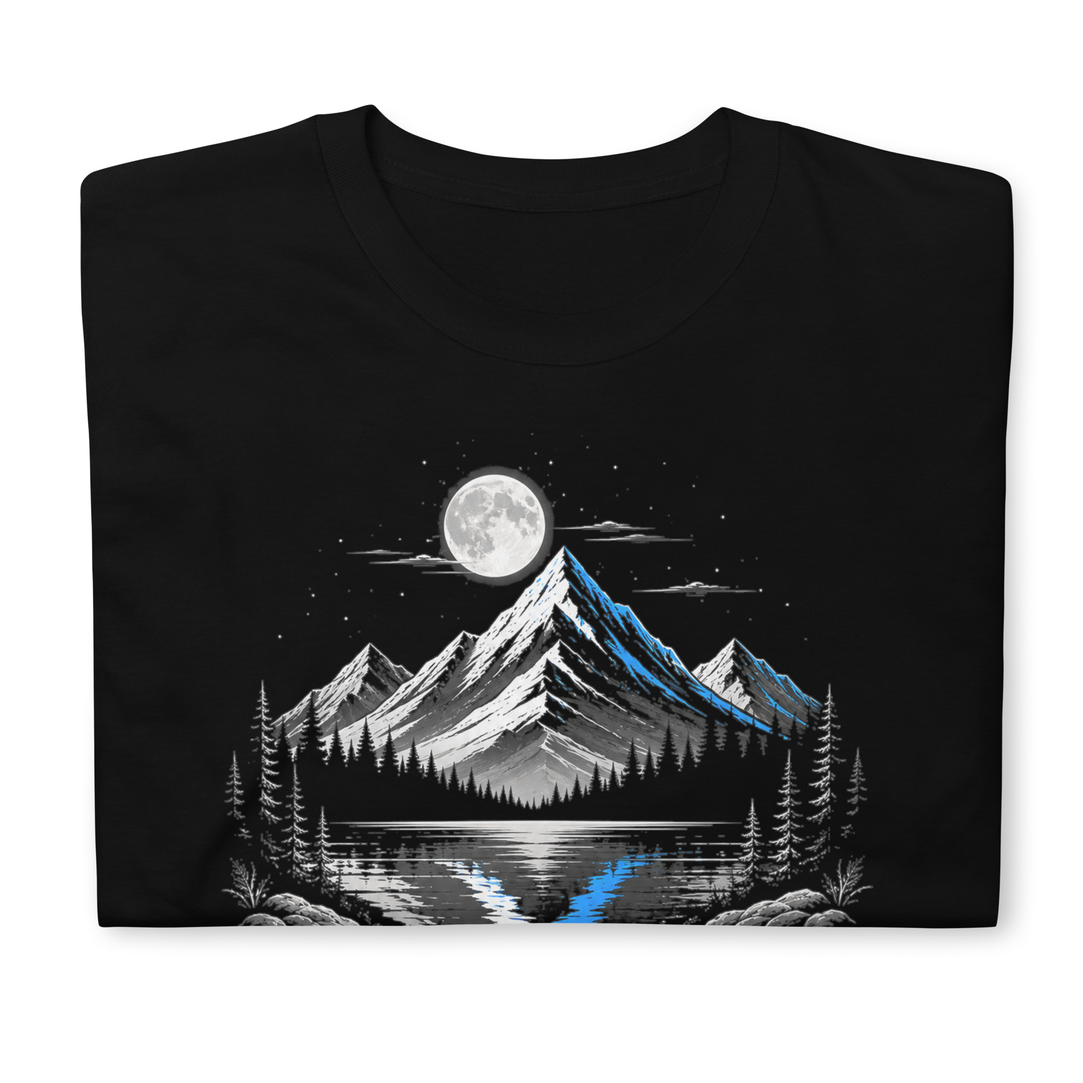
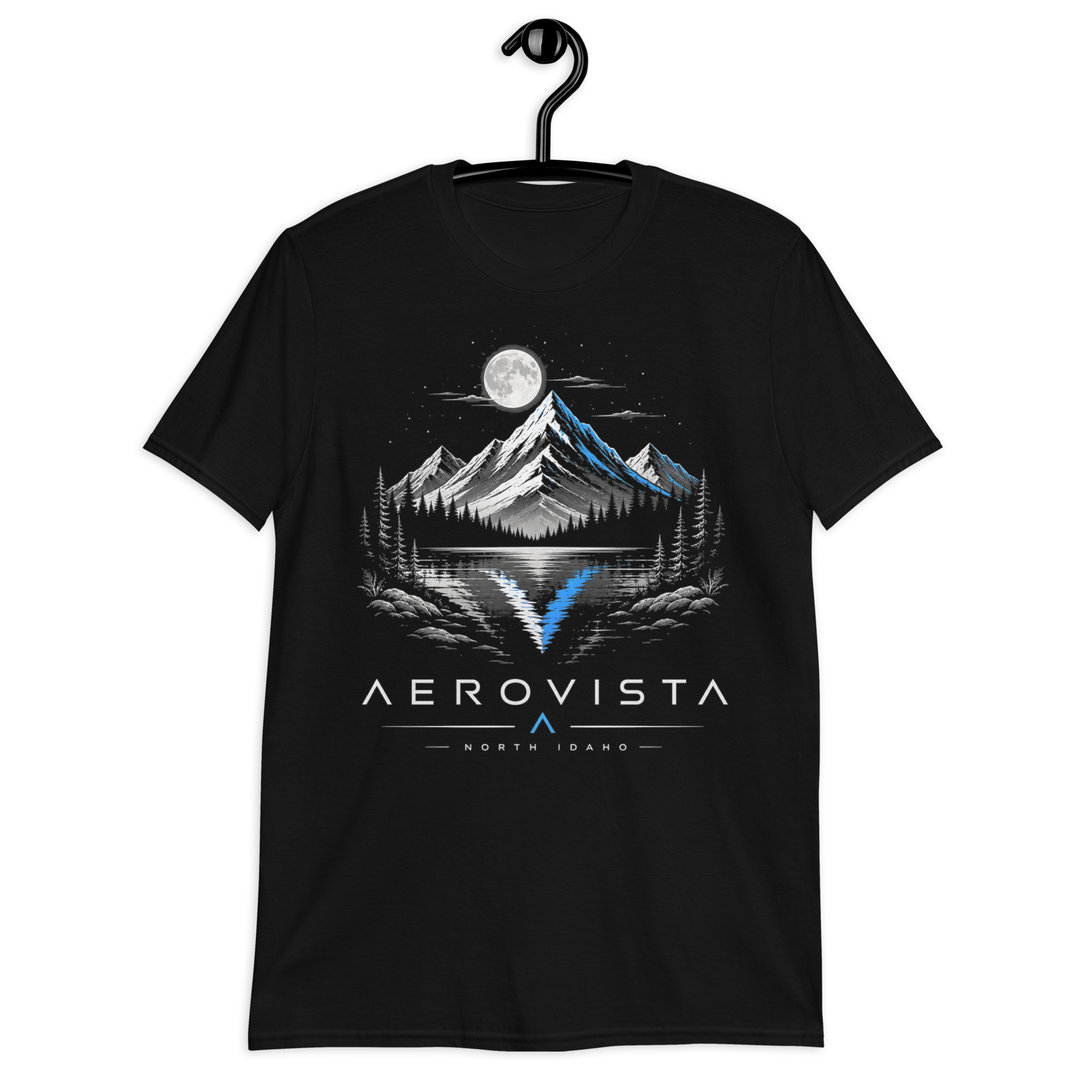
Add Northline sharing and refine product imagery

diff --git a/store.generated.js b/store.generated.js
@@ -1,1 +1,1 @@
-window.NORTHLINE_STORE={"schemaVersion":1,"channel":"northline","currency":"USD","apiOrigin":"https://api.aerovista.us","updated":"2026-09-02","collection":{"title":"AeroVista Northline Collection","description":"Wear the landscapes behind the Northline sound—six tees and two embroidered field caps drawn from the same mountain, moonlight, and electric-blue visual world."},"products":[{"id":"NL-01","slug":"blue-divide","title":"Blue Divide Tee","artKey":"blue-divide","image":"assets/products/blue-divide-tee.png","imageScale":1.08,"imageY":2,"subtitle":"Northline 01 · Black","description":"Moonlit alpine lake, cold peaks, dark timber, and a hidden apex in the reflection.","publicVisible":true,"checkoutReady":true,"variants":[{"id":"NL-01-S","label":"S","color":"Black","priceCents":3299,"cartKey":"Black__S","squareVariationId":"SJACB3RVWKJBO5QG4C6WFW3E","checkoutReady":true},{"id":"NL-01-M","label":"M","color":"Black","priceCents":3299,"cartKey":"Black__M","squareVariationId":"QPQITWRJTMHCU4EPJ7GBGCMS","checkoutReady":true},{"id":"NL-01-L","label":"L","color":"Black","priceCents":3299,"cartKey":"Black__L","squareVariationId":"MV5MDSJ54KRDFIZ2M67FJLXO","checkoutReady":true},{"id":"NL-01-XL","label":"XL","color":"Black","priceCents":3299,"cartKey":"Black__XL","squareVariationId":"QU2QJ67SEJEEM6INQDTBMQRX","checkoutReady":true},{"id":"NL-01-2XL","label":"2XL","color":"Black","priceCents":3299,"cartKey":"Black__2XL","squareVariationId":"LEGSOWBOIYG2W2NWJUY7HD34","checkoutReady":true},{"id":"NL-01-3XL","label":"3XL","color":"Black","priceCents":3299,"cartKey":"Black__3XL","squareVariationId":"6BA4LZWLROFJZN2ECJBNVJ54","checkoutReady":true}]},{"id":"NL-02","slug":"ridgeline","title":"Ridgeline Tee","artKey":"ridgeline","image":"assets/products/ridgeline-tee.png","imageScale":1.34,"imageY":-4,"subtitle":"Northline 02 · Black","description":"A wide panoramic mountain study built for broad chest placement.","publicVisible":true,"checkoutReady":true,"variants":[{"id":"NL-02-S","label":"S","color":"Black","priceCents":3299,"cartKey":"Black__S","squareVariationId":"CYMAIUALBD5E65AY64AE33CS","checkoutReady":true},{"id":"NL-02-M","label":"M","color":"Black","priceCents":3299,"cartKey":"Black__M","squareVariationId":"O2PBIW3ZFICUWL744XBMWF6M","checkoutReady":true},{"id":"NL-02-L","label":"L","color":"Black","priceCents":3299,"cartKey":"Black__L","squareVariationId":"NBNGEDAQOGUPGL36U7X2GFF4","checkoutReady":true},{"id":"NL-02-XL","label":"XL","color":"Black","priceCents":3299,"cartKey":"Black__XL","squareVariationId":"YVNXA66P6NXRB4CWRPTFY2LQ","checkoutReady":true},{"id":"NL-02-2XL","label":"2XL","color":"Black","priceCents":3299,"cartKey":"Black__2XL","squareVariationId":"32C6BQLJNN65CFGROOAAKPAO","checkoutReady":true},{"id":"NL-02-3XL","label":"3XL","color":"Black","priceCents":3299,"cartKey":"Black__3XL","squareVariationId":"SVQM45FKPPLJDPAVVOBQ5SSF","checkoutReady":true}]},{"id":"NL-03","slug":"idaho-after-dark","title":"Idaho After Dark Tee","artKey":"idaho-after-dark","image":"assets/products/idaho-after-dark-tee.png","imageScale":1.08,"imageY":1,"subtitle":"Northline 03 · Black","description":"A moonlit North Idaho expedition badge with hidden local details.","publicVisible":true,"checkoutReady":true,"variants":[{"id":"NL-03-S","label":"S","color":"Black","priceCents":3299,"cartKey":"Black__S","squareVariationId":"3OGXGQVSJCHRSXVASHMFP6VV","checkoutReady":true},{"id":"NL-03-M","label":"M","color":"Black","priceCents":3299,"cartKey":"Black__M","squareVariationId":"GMBBP2TEA7OIABKYR3CI66YO","checkoutReady":true},{"id":"NL-03-L","label":"L","color":"Black","priceCents":3299,"cartKey":"Black__L","squareVariationId":"EIZ5BAOVUM2BZ6BPAUFYORWV","checkoutReady":true},{"id":"NL-03-XL","label":"XL","color":"Black","priceCents":3299,"cartKey":"Black__XL","squareVariationId":"BLEQGFBSBNABRLG4GN7IWPYC","checkoutReady":true},{"id":"NL-03-2XL","label":"2XL","color":"Black","priceCents":3299,"cartKey":"Black__2XL","squareVariationId":"TBXBKC4WEFRA5GKXH55G5SNG","checkoutReady":true},{"id":"NL-03-3XL","label":"3XL","color":"Black","priceCents":3299,"cartKey":"Black__3XL","squareVariationId":"D2KRJJ5HDPQQV2M5H437MZAG","checkoutReady":true}]},{"id":"NL-04","slug":"powderline","title":"Powderline Tee","artKey":"powderline","image":"assets/products/powderline-tee.png","imageScale":1.34,"imageY":-4,"subtitle":"Northline 04 · Black","description":"A steep winter face marked by a single electric path through the snow.","publicVisible":true,"checkoutReady":true,"variants":[{"id":"NL-04-S","label":"S","color":"Black","priceCents":3299,"cartKey":"Black__S","squareVariationId":"ZBQSW2IFBK26H3YMZXMVOUT5","checkoutReady":true},{"id":"NL-04-M","label":"M","color":"Black","priceCents":3299,"cartKey":"Black__M","squareVariationId":"C5LU3SC547O4WVYJ6N6F2YTT","checkoutReady":true},{"id":"NL-04-L","label":"L","color":"Black","priceCents":3299,"cartKey":"Black__L","squareVariationId":"3HOVH4XOWXJJHRZ53JJSWB5B","checkoutReady":true},{"id":"NL-04-XL","label":"XL","color":"Black","priceCents":3299,"cartKey":"Black__XL","squareVariationId":"H6JA4LHLU7RBZL47ZPW4N3WS","checkoutReady":true},{"id":"NL-04-2XL","label":"2XL","color":"Black","priceCents":3299,"cartKey":"Black__2XL","squareVariationId":"BXP5YM4JFUKC5HWV2U7CTSXD","checkoutReady":true},{"id":"NL-04-3XL","label":"3XL","color":"Black","priceCents":3299,"cartKey":"Black__3XL","squareVariationId":"NKLKMBS6H6YU5S4O4WZESSXU","checkoutReady":true}]},{"id":"NL-05","slug":"source-code","title":"Source Code Tee","artKey":"source-code","image":"assets/products/source-code-tee.png","imageScale":1.34,"imageY":-4,"subtitle":"Northline 05 · Black","description":"Mountain field insignia meets AeroVista systems language and hidden geometry.","publicVisible":true,"checkoutReady":true,"variants":[{"id":"NL-05-S","label":"S","color":"Black","priceCents":3299,"cartKey":"Black__S","squareVariationId":"XT3HCJXVZ6O5LCPCUWVW7VPO","checkoutReady":true},{"id":"NL-05-M","label":"M","color":"Black","priceCents":3299,"cartKey":"Black__M","squareVariationId":"KATG2NXR5DISU24J5ZRKPBQT","checkoutReady":true},{"id":"NL-05-L","label":"L","color":"Black","priceCents":3299,"cartKey":"Black__L","squareVariationId":"LNT7CQAMNJIECOZWX6Z7PC6T","checkoutReady":true},{"id":"NL-05-XL","label":"XL","color":"Black","priceCents":3299,"cartKey":"Black__XL","squareVariationId":"DSISRWEDFTMRVR4N6ZOBQ7SB","checkoutReady":true},{"id":"NL-05-2XL","label":"2XL","color":"Black","priceCents":3299,"cartKey":"Black__2XL","squareVariationId":"UNA2PQII6NUIMZOBAXARJRS6","checkoutReady":true},{"id":"NL-05-3XL","label":"3XL","color":"Black","priceCents":3299,"cartKey":"Black__3XL","squareVariationId":"T26TEPZ7PXOUDMIKNWV4RUSG","checkoutReady":true}]},{"id":"NL-06","slug":"built-behind-the-scenes-hat","title":"Built Behind the Scenes Hat","artKey":"built-behind-the-scenes","image":"assets/products/built-behind-the-scenes-hat.jpeg","subtitle":"Northline Field Gear · Heather Grey / White","description":"A Richardson 112 trucker cap embroidered with the mountain-apex landscape behind the Northline sound.","publicVisible":true,"checkoutReady":true,"variants":[{"id":"NL-06-ONE","label":"One Size","color":"Heather Grey / White","priceCents":3899,"cartKey":"Gray__One Size","squareVariationId":"NGL72ITOR4SWK5DR5KY5QM6T","checkoutReady":true}]},{"id":"NL-07","slug":"moonline","title":"MoonLine Tee","artKey":"moonline","image":"assets/products/moonline-tee.png","imageScale":1.34,"imageY":-4,"subtitle":"Northline 06 · Black","description":"Moonlit peaks, reflected water, and a soaring eagle carried across a wide horizon mark.","publicVisible":true,"checkoutReady":true,"variants":[{"id":"NL-07-S","label":"S","color":"Black","priceCents":3299,"cartKey":"Black__S","squareVariationId":"XGUYOGR2VIIMAFE2WPMLZ4QF","checkoutReady":true},{"id":"NL-07-M","label":"M","color":"Black","priceCents":3299,"cartKey":"Black__M","squareVariationId":"4AR33BQFYNI7LP5S5JSILPJN","checkoutReady":true},{"id":"NL-07-L","label":"L","color":"Black","priceCents":3299,"cartKey":"Black__L","squareVariationId":"JXM7NTL5EX7BEX3CNXC32NFK","checkoutReady":true},{"id":"NL-07-XL","label":"XL","color":"Black","priceCents":3299,"cartKey":"Black__XL","squareVariationId":"KCSKHXS5UN36V6R3ZIAHEW6Y","checkoutReady":true},{"id":"NL-07-2XL","label":"2XL","color":"Black","priceCents":3299,"cartKey":"Black__2XL","squareVariationId":"LDNPTVHS74QFRUQJ7QCLZZDU","checkoutReady":true},{"id":"NL-07-3XL","label":"3XL","color":"Black","priceCents":3299,"cartKey":"Black__3XL","squareVariationId":"NDDDXI7VIOMO5MLJC6FVX42A","checkoutReady":true}]},{"id":"NL-08","slug":"moonline-hat","title":"MoonLine Embroidered Hat","artKey":"moonline","image":"assets/products/moonline-hat.png","subtitle":"Northline Field Gear · Heather Grey / White","description":"A structured snapback embroidered with the MoonLine mountain, lake, eagle, and apex horizon.","publicVisible":true,"checkoutReady":true,"variants":[{"id":"NL-08-ONE","label":"One Size","color":"Heather Grey / White","priceCents":3899,"cartKey":"Gray__One Size","squareVariationId":"HCWWDQULCAFCB35V6FNRXLPG","checkoutReady":true}]},{"id":"NL-09","slug":"built-behind-the-scenes-black","title":"Built Behind the Scenes Tee","artKey":"built-behind-the-scenes","subtitle":"Black","description":"The black Built Behind the Scenes tee, staged until its official product mockup is available.","publicVisible":false,"checkoutReady":true,"variants":[{"id":"NL-09-S","label":"S","color":"Black","priceCents":3299,"cartKey":"Black__S","squareVariationId":"N5AEVY4W2L36RVKIKJDZ4BFW","checkoutReady":true},{"id":"NL-09-M","label":"M","color":"Black","priceCents":3299,"cartKey":"Black__M","squareVariationId":"XIKMOTAKQYKA4XAPAS2R2B34","checkoutReady":true},{"id":"NL-09-L","label":"L","color":"Black","priceCents":3299,"cartKey":"Black__L","squareVariationId":"MJAO7PH3XCWCB6TJ7M7ITDE3","checkoutReady":true},{"id":"NL-09-XL","label":"XL","color":"Black","priceCents":3299,"cartKey":"Black__XL","squareVariationId":"EPCOTGE4CLYTZTH2WRYTR7RD","checkoutReady":true},{"id":"NL-09-2XL","label":"2XL","color":"Black","priceCents":3299,"cartKey":"Black__2XL","squareVariationId":"ICNM447TIJDJU2LXDIJ5DG5I","checkoutReady":true},{"id":"NL-09-3XL","label":"3XL","color":"Black","priceCents":3299,"cartKey":"Black__3XL","squareVariationId":"E45VERAOTNLJCKR6FZQDVBRS","checkoutReady":true}]},{"id":"NL-10","slug":"built-behind-the-scenes-graphite","title":"Built Behind the Scenes Tee","artKey":"built-behind-the-scenes","subtitle":"Graphite","description":"The graphite Built Behind the Scenes tee, staged until its official product mockup is available.","publicVisible":false,"checkoutReady":true,"variants":[{"id":"NL-10-S","label":"S","color":"Graphite","priceCents":3299,"cartKey":"Graphite__S","squareVariationId":"7JJEJCO6NGWNMC6KMA2JZDVK","checkoutReady":true},{"id":"NL-10-M","label":"M","color":"Graphite","priceCents":3299,"cartKey":"Graphite__M","squareVariationId":"EGXM3VHRQLZICQSN3D3SCNWZ","checkoutReady":true},{"id":"NL-10-L","label":"L","color":"Graphite","priceCents":3299,"cartKey":"Graphite__L","squareVariationId":"AIYQ32657BKST7ESUGZ3KZZ2","checkoutReady":true},{"id":"NL-10-XL","label":"XL","color":"Graphite","priceCents":3299,"cartKey":"Graphite__XL","squareVariationId":"6LHWVCK2WD74ZW2KXQL4OKOG","checkoutReady":true},{"id":"NL-10-2XL","label":"2XL","color":"Graphite","priceCents":3299,"cartKey":"Graphite__2XL","squareVariationId":"DRUEJSF4YHABHX6N5TLT5HTT","checkoutReady":true},{"id":"NL-10-3XL","label":"3XL","color":"Graphite","priceCents":3299,"cartKey":"Graphite__3XL","squareVariationId":"PLW6M4NHHBHNVOVGNVEZ5H4N","checkoutReady":true}]},{"id":"NL-11","slug":"moonline-catalog-alias","title":"MoonLine Tee","artKey":"moonline","subtitle":"Catalog alias under review","description":"A second Square listing named MoonLine whose copied description matches Blue Divide; kept hidden to prevent a duplicate storefront card.","publicVisible":false,"checkoutReady":true,"variants":[{"id":"NL-11-S","label":"S","color":"Black","priceCents":3299,"cartKey":"Black__S","squareVariationId":"MR62I3V444QFEM5JFHLVVUKQ","checkoutReady":true},{"id":"NL-11-M","label":"M","color":"Black","priceCents":3299,"cartKey":"Black__M","squareVariationId":"ACGP6A6ZUXEGGNTO2MH7ARM6","checkoutReady":true},{"id":"NL-11-L","label":"L","color":"Black","priceCents":3299,"cartKey":"Black__L","squareVariationId":"ORSFKT3CEUUZJBL5Z2NCG7BJ","checkoutReady":true},{"id":"NL-11-XL","label":"XL","color":"Black","priceCents":3299,"cartKey":"Black__XL","squareVariationId":"HPVJWRFQFNF433I2N26ICELW","checkoutReady":true},{"id":"NL-11-2XL","label":"2XL","color":"Black","priceCents":3299,"cartKey":"Black__2XL","squareVariationId":"RLXMG35VE2EECW65TFUWCQFZ","checkoutReady":true},{"id":"NL-11-3XL","label":"3XL","color":"Black","priceCents":3299,"cartKey":"Black__3XL","squareVariationId":"HN6ABOGVPJJA2QNZL3MLE65R","checkoutReady":true}]}]};
+window.NORTHLINE_STORE={"schemaVersion":1,"channel":"northline","currency":"USD","apiOrigin":"https://api.aerovista.us","updated":"2026-09-02","collection":{"title":"AeroVista Northline Collection","description":"Wear the landscapes behind the Northline sound—six tees and two embroidered field caps drawn from the same mountain, moonlight, and electric-blue visual world."},"products":[{"id":"NL-01","slug":"blue-divide","title":"Blue Divide Tee","artKey":"blue-divide","image":"assets/products/blue-divide-tee.png","imageScale":1.72,"imageY":0,"subtitle":"Northline 01 · Black","description":"Moonlit alpine lake, cold peaks, dark timber, and a hidden apex in the reflection.","publicVisible":true,"checkoutReady":true,"variants":[{"id":"NL-01-S","label":"S","color":"Black","priceCents":3299,"cartKey":"Black__S","squareVariationId":"SJACB3RVWKJBO5QG4C6WFW3E","checkoutReady":true},{"id":"NL-01-M","label":"M","color":"Black","priceCents":3299,"cartKey":"Black__M","squareVariationId":"QPQITWRJTMHCU4EPJ7GBGCMS","checkoutReady":true},{"id":"NL-01-L","label":"L","color":"Black","priceCents":3299,"cartKey":"Black__L","squareVariationId":"MV5MDSJ54KRDFIZ2M67FJLXO","checkoutReady":true},{"id":"NL-01-XL","label":"XL","color":"Black","priceCents":3299,"cartKey":"Black__XL","squareVariationId":"QU2QJ67SEJEEM6INQDTBMQRX","checkoutReady":true},{"id":"NL-01-2XL","label":"2XL","color":"Black","priceCents":3299,"cartKey":"Black__2XL","squareVariationId":"LEGSOWBOIYG2W2NWJUY7HD34","checkoutReady":true},{"id":"NL-01-3XL","label":"3XL","color":"Black","priceCents":3299,"cartKey":"Black__3XL","squareVariationId":"6BA4LZWLROFJZN2ECJBNVJ54","checkoutReady":true}]},{"id":"NL-02","slug":"ridgeline","title":"Ridgeline Tee","artKey":"ridgeline","image":"assets/products/ridgeline-tee.png","imageScale":1.72,"imageY":0,"subtitle":"Northline 02 · Black","description":"A wide panoramic mountain study built for broad chest placement.","publicVisible":true,"checkoutReady":true,"variants":[{"id":"NL-02-S","label":"S","color":"Black","priceCents":3299,"cartKey":"Black__S","squareVariationId":"CYMAIUALBD5E65AY64AE33CS","checkoutReady":true},{"id":"NL-02-M","label":"M","color":"Black","priceCents":3299,"cartKey":"Black__M","squareVariationId":"O2PBIW3ZFICUWL744XBMWF6M","checkoutReady":true},{"id":"NL-02-L","label":"L","color":"Black","priceCents":3299,"cartKey":"Black__L","squareVariationId":"NBNGEDAQOGUPGL36U7X2GFF4","checkoutReady":true},{"id":"NL-02-XL","label":"XL","color":"Black","priceCents":3299,"cartKey":"Black__XL","squareVariationId":"YVNXA66P6NXRB4CWRPTFY2LQ","checkoutReady":true},{"id":"NL-02-2XL","label":"2XL","color":"Black","priceCents":3299,"cartKey":"Black__2XL","squareVariationId":"32C6BQLJNN65CFGROOAAKPAO","checkoutReady":true},{"id":"NL-02-3XL","label":"3XL","color":"Black","priceCents":3299,"cartKey":"Black__3XL","squareVariationId":"SVQM45FKPPLJDPAVVOBQ5SSF","checkoutReady":true}]},{"id":"NL-03","slug":"idaho-after-dark","title":"Idaho After Dark Tee","artKey":"idaho-after-dark","image":"assets/products/idaho-after-dark-tee.png","imageScale":1.72,"imageY":0,"subtitle":"Northline 03 · Black","description":"A moonlit North Idaho expedition badge with hidden local details.","publicVisible":true,"checkoutReady":true,"variants":[{"id":"NL-03-S","label":"S","color":"Black","priceCents":3299,"cartKey":"Black__S","squareVariationId":"3OGXGQVSJCHRSXVASHMFP6VV","checkoutReady":true},{"id":"NL-03-M","label":"M","color":"Black","priceCents":3299,"cartKey":"Black__M","squareVariationId":"GMBBP2TEA7OIABKYR3CI66YO","checkoutReady":true},{"id":"NL-03-L","label":"L","color":"Black","priceCents":3299,"cartKey":"Black__L","squareVariationId":"EIZ5BAOVUM2BZ6BPAUFYORWV","checkoutReady":true},{"id":"NL-03-XL","label":"XL","color":"Black","priceCents":3299,"cartKey":"Black__XL","squareVariationId":"BLEQGFBSBNABRLG4GN7IWPYC","checkoutReady":true},{"id":"NL-03-2XL","label":"2XL","color":"Black","priceCents":3299,"cartKey":"Black__2XL","squareVariationId":"TBXBKC4WEFRA5GKXH55G5SNG","checkoutReady":true},{"id":"NL-03-3XL","label":"3XL","color":"Black","priceCents":3299,"cartKey":"Black__3XL","squareVariationId":"D2KRJJ5HDPQQV2M5H437MZAG","checkoutReady":true}]},{"id":"NL-04","slug":"powderline","title":"Powderline Tee","artKey":"powderline","image":"assets/products/powderline-tee.png","imageScale":1.72,"imageY":0,"subtitle":"Northline 04 · Black","description":"A steep winter face marked by a single electric path through the snow.","publicVisible":true,"checkoutReady":true,"variants":[{"id":"NL-04-S","label":"S","color":"Black","priceCents":3299,"cartKey":"Black__S","squareVariationId":"ZBQSW2IFBK26H3YMZXMVOUT5","checkoutReady":true},{"id":"NL-04-M","label":"M","color":"Black","priceCents":3299,"cartKey":"Black__M","squareVariationId":"C5LU3SC547O4WVYJ6N6F2YTT","checkoutReady":true},{"id":"NL-04-L","label":"L","color":"Black","priceCents":3299,"cartKey":"Black__L","squareVariationId":"3HOVH4XOWXJJHRZ53JJSWB5B","checkoutReady":true},{"id":"NL-04-XL","label":"XL","color":"Black","priceCents":3299,"cartKey":"Black__XL","squareVariationId":"H6JA4LHLU7RBZL47ZPW4N3WS","checkoutReady":true},{"id":"NL-04-2XL","label":"2XL","color":"Black","priceCents":3299,"cartKey":"Black__2XL","squareVariationId":"BXP5YM4JFUKC5HWV2U7CTSXD","checkoutReady":true},{"id":"NL-04-3XL","label":"3XL","color":"Black","priceCents":3299,"cartKey":"Black__3XL","squareVariationId":"NKLKMBS6H6YU5S4O4WZESSXU","checkoutReady":true}]},{"id":"NL-05","slug":"source-code","title":"Source Code Tee","artKey":"source-code","image":"assets/products/source-code-tee.png","imageScale":1.72,"imageY":0,"subtitle":"Northline 05 · Black","description":"Mountain field insignia meets AeroVista systems language and hidden geometry.","publicVisible":true,"checkoutReady":true,"variants":[{"id":"NL-05-S","label":"S","color":"Black","priceCents":3299,"cartKey":"Black__S","squareVariationId":"XT3HCJXVZ6O5LCPCUWVW7VPO","checkoutReady":true},{"id":"NL-05-M","label":"M","color":"Black","priceCents":3299,"cartKey":"Black__M","squareVariationId":"KATG2NXR5DISU24J5ZRKPBQT","checkoutReady":true},{"id":"NL-05-L","label":"L","color":"Black","priceCents":3299,"cartKey":"Black__L","squareVariationId":"LNT7CQAMNJIECOZWX6Z7PC6T","checkoutReady":true},{"id":"NL-05-XL","label":"XL","color":"Black","priceCents":3299,"cartKey":"Black__XL","squareVariationId":"DSISRWEDFTMRVR4N6ZOBQ7SB","checkoutReady":true},{"id":"NL-05-2XL","label":"2XL","color":"Black","priceCents":3299,"cartKey":"Black__2XL","squareVariationId":"UNA2PQII6NUIMZOBAXARJRS6","checkoutReady":true},{"id":"NL-05-3XL","label":"3XL","color":"Black","priceCents":3299,"cartKey":"Black__3XL","squareVariationId":"T26TEPZ7PXOUDMIKNWV4RUSG","checkoutReady":true}]},{"id":"NL-06","slug":"built-behind-the-scenes-hat","title":"Built Behind the Scenes Hat","artKey":"built-behind-the-scenes","image":"assets/products/built-behind-the-scenes-hat.jpeg","imageScale":1.22,"imageY":0,"subtitle":"Northline Field Gear · Heather Grey / White","description":"A Richardson 112 trucker cap embroidered with the mountain-apex landscape behind the Northline sound.","publicVisible":true,"checkoutReady":true,"variants":[{"id":"NL-06-ONE","label":"One Size","color":"Heather Grey / White","priceCents":3899,"cartKey":"Gray__One Size","squareVariationId":"NGL72ITOR4SWK5DR5KY5QM6T","checkoutReady":true}]},{"id":"NL-07","slug":"moonline","title":"MoonLine Tee","artKey":"moonline","image":"assets/products/moonline-tee.png","imageScale":1.72,"imageY":0,"subtitle":"Northline 06 · Black","description":"Moonlit peaks, reflected water, and a soaring eagle carried across a wide horizon mark.","publicVisible":true,"checkoutReady":true,"variants":[{"id":"NL-07-S","label":"S","color":"Black","priceCents":3299,"cartKey":"Black__S","squareVariationId":"XGUYOGR2VIIMAFE2WPMLZ4QF","checkoutReady":true},{"id":"NL-07-M","label":"M","color":"Black","priceCents":3299,"cartKey":"Black__M","squareVariationId":"4AR33BQFYNI7LP5S5JSILPJN","checkoutReady":true},{"id":"NL-07-L","label":"L","color":"Black","priceCents":3299,"cartKey":"Black__L","squareVariationId":"JXM7NTL5EX7BEX3CNXC32NFK","checkoutReady":true},{"id":"NL-07-XL","label":"XL","color":"Black","priceCents":3299,"cartKey":"Black__XL","squareVariationId":"KCSKHXS5UN36V6R3ZIAHEW6Y","checkoutReady":true},{"id":"NL-07-2XL","label":"2XL","color":"Black","priceCents":3299,"cartKey":"Black__2XL","squareVariationId":"LDNPTVHS74QFRUQJ7QCLZZDU","checkoutReady":true},{"id":"NL-07-3XL","label":"3XL","color":"Black","priceCents":3299,"cartKey":"Black__3XL","squareVariationId":"NDDDXI7VIOMO5MLJC6FVX42A","checkoutReady":true}]},{"id":"NL-08","slug":"moonline-hat","title":"MoonLine Embroidered Hat","artKey":"moonline","image":"assets/products/moonline-hat.png","imageScale":1.22,"imageY":0,"subtitle":"Northline Field Gear · Heather Grey / White","description":"A structured snapback embroidered with the MoonLine mountain, lake, eagle, and apex horizon.","publicVisible":true,"checkoutReady":true,"variants":[{"id":"NL-08-ONE","label":"One Size","color":"Heather Grey / White","priceCents":3899,"cartKey":"Gray__One Size","squareVariationId":"HCWWDQULCAFCB35V6FNRXLPG","checkoutReady":true}]},{"id":"NL-09","slug":"built-behind-the-scenes-black","title":"Built Behind the Scenes Tee","artKey":"built-behind-the-scenes","subtitle":"Black","description":"The black Built Behind the Scenes tee, staged until its official product mockup is available.","publicVisible":false,"checkoutReady":true,"variants":[{"id":"NL-09-S","label":"S","color":"Black","priceCents":3299,"cartKey":"Black__S","squareVariationId":"N5AEVY4W2L36RVKIKJDZ4BFW","checkoutReady":true},{"id":"NL-09-M","label":"M","color":"Black","priceCents":3299,"cartKey":"Black__M","squareVariationId":"XIKMOTAKQYKA4XAPAS2R2B34","checkoutReady":true},{"id":"NL-09-L","label":"L","color":"Black","priceCents":3299,"cartKey":"Black__L","squareVariationId":"MJAO7PH3XCWCB6TJ7M7ITDE3","checkoutReady":true},{"id":"NL-09-XL","label":"XL","color":"Black","priceCents":3299,"cartKey":"Black__XL","squareVariationId":"EPCOTGE4CLYTZTH2WRYTR7RD","checkoutReady":true},{"id":"NL-09-2XL","label":"2XL","color":"Black","priceCents":3299,"cartKey":"Black__2XL","squareVariationId":"ICNM447TIJDJU2LXDIJ5DG5I","checkoutReady":true},{"id":"NL-09-3XL","label":"3XL","color":"Black","priceCents":3299,"cartKey":"Black__3XL","squareVariationId":"E45VERAOTNLJCKR6FZQDVBRS","checkoutReady":true}]},{"id":"NL-10","slug":"built-behind-the-scenes-graphite","title":"Built Behind the Scenes Tee","artKey":"built-behind-the-scenes","subtitle":"Graphite","description":"The graphite Built Behind the Scenes tee, staged until its official product mockup is available.","publicVisible":false,"checkoutReady":true,"variants":[{"id":"NL-10-S","label":"S","color":"Graphite","priceCents":3299,"cartKey":"Graphite__S","squareVariationId":"7JJEJCO6NGWNMC6KMA2JZDVK","checkoutReady":true},{"id":"NL-10-M","label":"M","color":"Graphite","priceCents":3299,"cartKey":"Graphite__M","squareVariationId":"EGXM3VHRQLZICQSN3D3SCNWZ","checkoutReady":true},{"id":"NL-10-L","label":"L","color":"Graphite","priceCents":3299,"cartKey":"Graphite__L","squareVariationId":"AIYQ32657BKST7ESUGZ3KZZ2","checkoutReady":true},{"id":"NL-10-XL","label":"XL","color":"Graphite","priceCents":3299,"cartKey":"Graphite__XL","squareVariationId":"6LHWVCK2WD74ZW2KXQL4OKOG","checkoutReady":true},{"id":"NL-10-2XL","label":"2XL","color":"Graphite","priceCents":3299,"cartKey":"Graphite__2XL","squareVariationId":"DRUEJSF4YHABHX6N5TLT5HTT","checkoutReady":true},{"id":"NL-10-3XL","label":"3XL","color":"Graphite","priceCents":3299,"cartKey":"Graphite__3XL","squareVariationId":"PLW6M4NHHBHNVOVGNVEZ5H4N","checkoutReady":true}]},{"id":"NL-11","slug":"moonline-catalog-alias","title":"MoonLine Tee","artKey":"moonline","subtitle":"Catalog alias under review","description":"A second Square listing named MoonLine whose copied description matches Blue Divide; kept hidden to prevent a duplicate storefront card.","publicVisible":false,"checkoutReady":true,"variants":[{"id":"NL-11-S","label":"S","color":"Black","priceCents":3299,"cartKey":"Black__S","squareVariationId":"MR62I3V444QFEM5JFHLVVUKQ","checkoutReady":true},{"id":"NL-11-M","label":"M","color":"Black","priceCents":3299,"cartKey":"Black__M","squareVariationId":"ACGP6A6ZUXEGGNTO2MH7ARM6","checkoutReady":true},{"id":"NL-11-L","label":"L","color":"Black","priceCents":3299,"cartKey":"Black__L","squareVariationId":"ORSFKT3CEUUZJBL5Z2NCG7BJ","checkoutReady":true},{"id":"NL-11-XL","label":"XL","color":"Black","priceCents":3299,"cartKey":"Black__XL","squareVariationId":"HPVJWRFQFNF433I2N26ICELW","checkoutReady":true},{"id":"NL-11-2XL","label":"2XL","color":"Black","priceCents":3299,"cartKey":"Black__2XL","squareVariationId":"RLXMG35VE2EECW65TFUWCQFZ","checkoutReady":true},{"id":"NL-11-3XL","label":"3XL","color":"Black","priceCents":3299,"cartKey":"Black__3XL","squareVariationId":"HN6ABOGVPJJA2QNZL3MLE65R","checkoutReady":true}]}]};

diff --git a/app.js b/app.js
@@ -22,7 +22,7 @@
     modalSubtitle:$("modalSubtitle"), modalTitle:$("modalTitle"), modalStory:$("modalStory"), listenFromStory:$("listenFromStory"),
     fullscreenViz:$("fullscreenViz"), vizOverlay:$("vizOverlay"), closeViz:$("closeViz"), fullTrackNumber:$("fullTrackNumber"),
     fullTrackTitle:$("fullTrackTitle"), storeGrid:$("storeGrid"), storeAdmin:$("storeAdmin"), catalogImport:$("catalogImport"),
-    resetCatalog:$("resetCatalog"), bagButton:$("bagButton"), bagCount:$("bagCount"), cartDrawer:$("cartDrawer"),
+    resetCatalog:$("resetCatalog"), shareButton:$("shareButton"), bagButton:$("bagButton"), bagCount:$("bagCount"), cartDrawer:$("cartDrawer"),
     cartScrim:$("cartScrim"), cartClose:$("cartClose"), cartItems:$("cartItems"), cartEmpty:$("cartEmpty"),
     cartSummary:$("cartSummary"), cartSubtotal:$("cartSubtotal"), checkoutButton:$("checkoutButton"), checkoutStatus:$("checkoutStatus"),
     toast:$("toast"), transportCard:$("transportCard"), playbackStatus:$("playbackStatus")
@@ -118,6 +118,26 @@
 
   function isPlayable(track){
     return Boolean(track && track.available && audioUrl(track));
+  }
+
+  async function shareNorthline(){
+    const shareData={
+      title:"Northline — EchoVerse Audio",
+      text:"Listen to Northline and explore the AeroVista collection.",
+      url:location.href
+    };
+    if(navigator.share){
+      try{await navigator.share(shareData);return;}catch(err){if(err?.name==="AbortError")return;}
+    }
+    try{
+      await navigator.clipboard.writeText(shareData.url);
+      toast("Northline link copied.");
+    }catch{
+      const field=document.createElement("textarea");
+      field.value=shareData.url;field.setAttribute("readonly","");field.style.position="fixed";field.style.opacity="0";
+      document.body.appendChild(field);field.select();document.execCommand("copy");field.remove();
+      toast("Northline link copied.");
+    }
   }
 
   function resolvedAudioUrl(track){
@@ -436,7 +456,7 @@
       const card=document.createElement("article");
       card.className="product-card";
       const ready=Boolean(variant&&variant.checkoutReady&&variant.cartKey&&variant.squareVariationId);
-      const imageScale=Math.min(1.5,Math.max(1,Number(product.imageScale)||1));
+      const imageScale=Math.min(2,Math.max(1,Number(product.imageScale)||1));
       const imageY=Math.min(15,Math.max(-15,Number(product.imageY)||0));
       const sizeOptions=variants.map(v=>`<option value="${escapeHtml(v.id)}">${escapeHtml(v.label)} · ${money(v.priceCents,state.store.currency)}</option>`).join("");
       card.innerHTML=`
@@ -666,6 +686,7 @@
 
   function initEvents(){
     document.querySelectorAll(".section-nav button").forEach(btn=>btn.addEventListener("click",()=>setView(btn.dataset.view)));
+    els.shareButton.addEventListener("click",shareNorthline);
     els.playButton.addEventListener("click",()=>{if(els.audio.paused)playCurrent();else els.audio.pause();});
     els.prevButton.addEventListener("click",()=>selectTrack(nextIndex(-1),state.playing));
     els.nextButton.addEventListener("click",()=>selectTrack(nextIndex(1),state.playing));

diff --git a/index.html b/index.html
@@ -5,6 +5,18 @@
   <meta name="viewport" content="width=device-width,initial-scale=1,viewport-fit=cover">
   <meta name="theme-color" content="#050608">
   <meta name="description" content="Northline — an immersive EchoStory by EchoVerse Audio and AeroVista.">
+  <meta property="og:type" content="website">
+  <meta property="og:url" content="https://northline.aerovista.us/">
+  <meta property="og:title" content="Northline — EchoVerse Audio">
+  <meta property="og:description" content="Listen to Northline and explore the AeroVista collection shaped by mountain, moonlight, and signal.">
+  <meta property="og:image" content="https://northline.aerovista.us/assets/share/northline-share.png">
+  <meta property="og:image:width" content="1200">
+  <meta property="og:image:height" content="630">
+  <meta property="og:image:alt" content="Northline by AeroVista over a moonlit alpine lake">
+  <meta name="twitter:card" content="summary_large_image">
+  <meta name="twitter:title" content="Northline — EchoVerse Audio">
+  <meta name="twitter:description" content="Listen to Northline and explore the AeroVista collection shaped by mountain, moonlight, and signal.">
+  <meta name="twitter:image" content="https://northline.aerovista.us/assets/share/northline-share.png">
   <title>Northline — EchoVerse Audio | An AeroVista Production</title>
   <link rel="manifest" href="manifest.webmanifest">
   <link rel="icon" href="favicon.svg" type="image/svg+xml">
@@ -25,9 +37,15 @@
         <small>AN AEROVISTA PRODUCTION</small>
       </span>
     </a>
-    <button class="icon-btn bag-btn" id="bagButton" aria-label="Open store bag">
-      <span>Bag</span><b id="bagCount">0</b>
-    </button>
+    <div class="topbar-actions">
+      <button class="icon-btn share-btn" id="shareButton" aria-label="Share Northline">
+        <svg viewBox="0 0 24 24" aria-hidden="true"><path d="M18 8a3 3 0 1 0-2.83-4A3 3 0 0 0 15 5c0 .2.02.4.06.59L8.9 9.1A3 3 0 0 0 7 8.42a3 3 0 1 0 1.9 5.48l6.16 3.51A3 3 0 0 0 15 18a3 3 0 1 0 .84-2.08l-6.1-3.48A3 3 0 0 0 10 11c0-.2-.02-.4-.06-.59l6.16-3.51A3 3 0 0 0 18 8Z"/></svg>
+        <span>Share</span>
+      </button>
+      <button class="icon-btn bag-btn" id="bagButton" aria-label="Open store bag">
+        <span>Bag</span><b id="bagCount">0</b>
+      </button>
+    </div>
   </header>
 
   <nav class="section-nav" aria-label="EchoStory sections">

diff --git a/styles.css b/styles.css
@@ -76,6 +76,9 @@ img{display:block;max-width:100%}
   cursor:pointer;transition:.2s ease;
 }
 .icon-btn:hover{background:rgba(255,255,255,.09);border-color:var(--line-strong)}
+.topbar-actions{display:flex;align-items:center;gap:8px}
+.share-btn{font-size:10px;text-transform:uppercase;letter-spacing:.13em}
+.share-btn svg{width:16px;height:16px;fill:currentColor;flex:0 0 auto}
 .bag-btn{font-size:11px;text-transform:uppercase;letter-spacing:.14em}
 .bag-btn b{display:grid;place-items:center;min-width:22px;height:22px;border-radius:999px;background:var(--blue);color:#04101a;font-size:11px}
 .section-nav{
@@ -299,6 +302,11 @@ footer strong{color:#aab6c3;text-transform:uppercase;letter-spacing:.12em}
   .store-hero{flex-direction:row;align-items:end;justify-content:space-between}
   footer{flex-direction:row;justify-content:space-between}
   .story-modal-card{left:50%;right:auto;bottom:50%;transform:translate(-50%,50%);width:min(720px,92vw);padding:20px}
+}
+@media(max-width:430px){
+  .brand-copy small{display:none}
+  .share-btn{width:40px;padding:0}
+  .share-btn span{display:none}
 }
 @media(min-width:1050px){
   .story-grid{grid-template-columns:repeat(6,1fr)}
